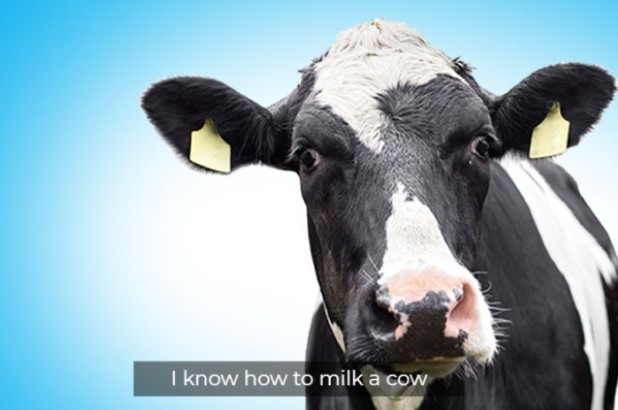
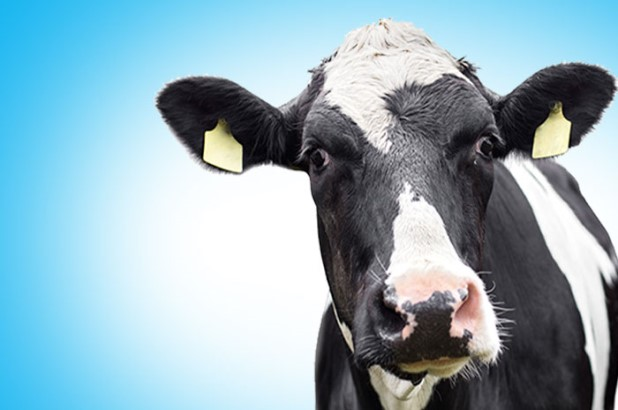
Image carousel: change pictures, add description of every photo, except the first. description changes automatically.

diff --git a/index.html b/index.html
@@ -205,7 +205,7 @@ to create something mind blowing in the future.
 
 <!-- image carousel-->
   
-  
+<div>
 <div class="slider-wrapper">
 
   <div class="slide active"> <!-- shows witch slide is active. after refresh from which slide we start doing our slide show -->
@@ -224,7 +224,7 @@ to create something mind blowing in the future.
   <img class="picture-carousel" src="../Images/cow.jpg" alt="picture of the cow">
   </div>
   <div class="slide">
-  <img class="picture-carousel" src="../Images/army.jpg" alt="military">
+  <img class="picture-carousel" src="../Images/army.png" alt="military">
   </div>
   <div class="slide">
   <img class="picture-carousel" src="../Images/choir.jpg" alt="children choir">
@@ -239,7 +239,7 @@ to create something mind blowing in the future.
   <div id="text-bar">
     <p id="description"></p>
   </div>
-
+</div>
   <div class="dots-wrapper">
   <span class="dot active"></span>
   <span class="dot"></span>
@@ -257,19 +257,26 @@ to create something mind blowing in the future.
 <!--other projects-->
  <nav class="other-projects">
 <figure>
-<a class="text-project" href= "https://github.com/missim2020/Women-In-Tech" target="blank"><img class="picture-projects" src="./Images/women_in_tech.png" alt="women in tech" ><figcaption >"CodeFirstGirls" project</figcaption></a>
+<a class="text-project" href= "https://github.com/missim2020/Women-In-Tech" target="blank">
+  <img class="picture-projects" src="./Images/women_in_tech.png" alt="women in tech" >
+  <figcaption >"CodeFirstGirls" project</figcaption></a>
 </figure>
 
 <figure>
-  <a  class="text-project" href= "https://github.com/missim2020/Dice-game" target="blank"><img class="picture-projects" src="./Images/dice_game.png" alt="dice game" > <figcaption>"Udemy course" project</figcaption></a>
+  <a  class="text-project" href= "https://github.com/missim2020/Dice-game" target="blank">
+    <img class="picture-projects" src="./Images/dice_game.png" alt="dice game" > 
+    <figcaption>"Udemy course" project</figcaption></a>
 </figure>
 
 <figure>
-    <a  class="text-project" href= "https://codepen.io/Missim2020/pen/vYOPOWM" target="blank"><img class="picture-projects" src="./Images/technical_documentation.jpg" alt="technical documentation" ><figcaption>Project for "FreeCodeCamp" certificate</figcaption></a>
+    <a  class="text-project" href= "https://codepen.io/Missim2020/pen/vYOPOWM" target="blank">
+    <img class="picture-projects" src="./Images/technical_documentation.jpg" alt="technical documentation" >
+    <figcaption>Project for "FreeCodeCamp" certificate</figcaption></a>
     </figure>
   </nav>
   
-  <h5>More...</h5>
+  <h5>More about my project</h5>
+  
   <nav class="links">
    
     <figure class="more">

diff --git a/Styles/style.css b/Styles/style.css
@@ -585,7 +585,7 @@ h3 {
   font-family: "Montserrat", sans-serif;
   font-size: 3.5rem;
   margin-top: 0;
-  margin-bottom: 0.5rem;
+  margin-bottom: 2rem;
   width: 100%;
 }
 h3 {
@@ -594,7 +594,7 @@ h3 {
   font-family: "Montserrat", sans-serif;
   font-size: 3.5rem;
   margin-top: 1rem;
-  margin-bottom: 0.5rem;
+  margin-bottom: 2rem;
   width: 100%;
 }
 
@@ -695,34 +695,36 @@ h3 {
 
 
     #text-bar {
-      background-color: blue;
-      width: 100%;
-      height: 36px; 
-      position: absolute; 
-      top: 83%;
-      transform: translate(0%, -100%);  
-      text-align: center; 
-      height: 36px;
+      background-color: black;
+      display: none;
       line-height: 36px;
       opacity: 0.7;
+      position: absolute; 
+     text-align: center; 
+      top: 100%;
+      transform: translate(0%, -100%); 
+      width: 100%;      
     }
     
     #description {
-      padding: 0px;
-      margin: 0px; 
-      color: white;
-      position: relative;
+     color: white;
       display: inline-block;
+      font-family: "Montserrat", sans-serif;
+      font-size: 1.5rem;
+      margin:0.7rem;
+      position: relative;
     }
     
 /*other projects*/
 
 .other-projects {
   display: grid;
+  /*grid-template-columns: repeat(auto-fit, minmax(300px, 1fr));*/
   grid-template-columns: repeat(3, 1fr);
   margin-top: 5rem;
   position: relative;
-  width: 100%;
+
+ width: 100%;
 }
 
 .picture-projects {
@@ -740,11 +742,14 @@ figcaption {
   font-weight: bold;
   margin-top: 0.5rem;
   padding: 0.4rem;
+  font-size: 1.5rem;
+  line-height: 2;
+  
 }
 
 .text-project {
-  font-size: 1.5rem;
-  line-height: 2;
+  /*font-size: 1.5rem;
+  line-height: 2;*/
   text-decoration: none;
 }
 
@@ -755,6 +760,7 @@ h5 {
   font-size: 2rem;
   font-weight: bolder;
   margin-bottom: 2rem;
+  cursor: pointer;
 }
 .links {
   display: flex;

diff --git a/JS/app.js b/JS/app.js
@@ -69,16 +69,33 @@ const prev = document.getElementById("btn-prev"),
       next = document.getElementById("btn-next"),
       slides = document.querySelectorAll(".slide"), // we're getting all slides in one go
       dots = document.querySelectorAll(".dot"),
-      pause=document.getElementById("pause");  
+      pause=document.getElementById("pause"),
+      descriptionText = document.getElementById("description"),
+      textHolder=document.getElementById("text-bar");
 
 let index = 0;
-
+let description = [
+"Random facts about me", 
+"I like baking cakes more than eating them",
+"I used to ice skate across a frozen lake to go to school in the winter", 
+"I grew up in a small village with no running hot water and only an outdoor W.C.", 
+"I know how to milk a cow", 
+"After I finished school I was accepted by a military school, but decided to go elsewhere",
+"At school I was removed from the choir after the teacher found out how bad my singing voice was", 
+"My favourite movie is '3 idiots'"
+]
 
 const activeSlide = n => {
 for (slide of slides){
   slide.classList.remove("active");
 }
 slides[n].classList.add("active");
+descriptionText.innerHTML = description[index];
+if (index>0){
+  textHolder.style.display="block"
+}else{
+  textHolder.style.display="none"
+}
 }
 
 const activeDot = n => {
@@ -127,12 +144,12 @@ item.addEventListener("click",()=>{
 })
 
 let playing=true;
-let interval = setInterval(nextSlide, 5000);
+let interval = setInterval(nextSlide, 6000);
 
 function playSlideshow() {
   pause.innerHTML = 'Pause';
   playing = true;
-  interval = setInterval(nextSlide,5000);
+  interval = setInterval(nextSlide,6000);
 }
 function pauseSlideshow() {
   pause.innerHTML = 'Play';
